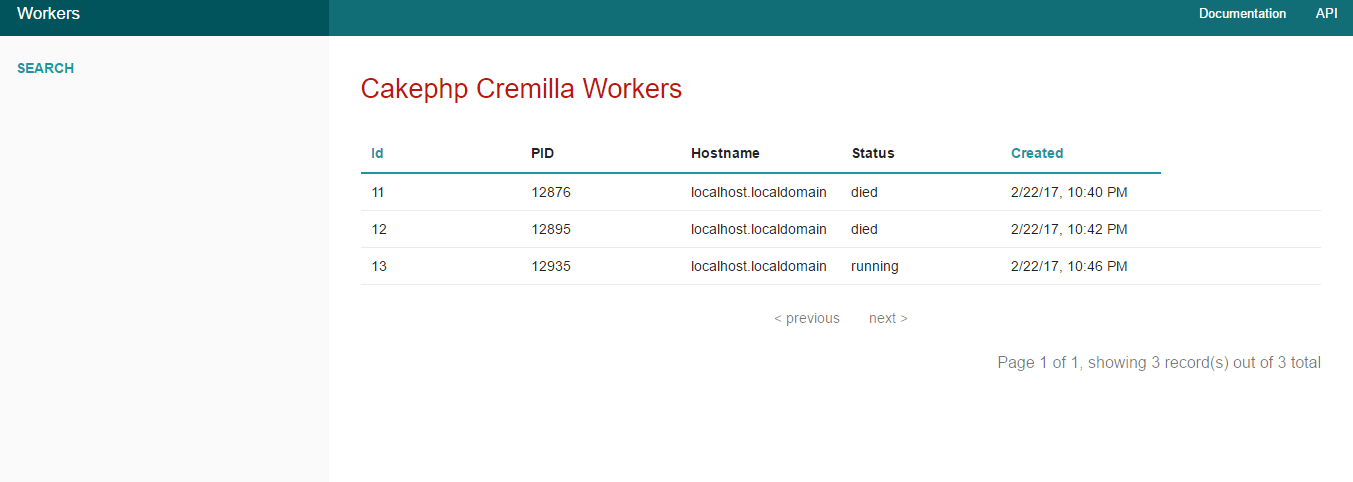
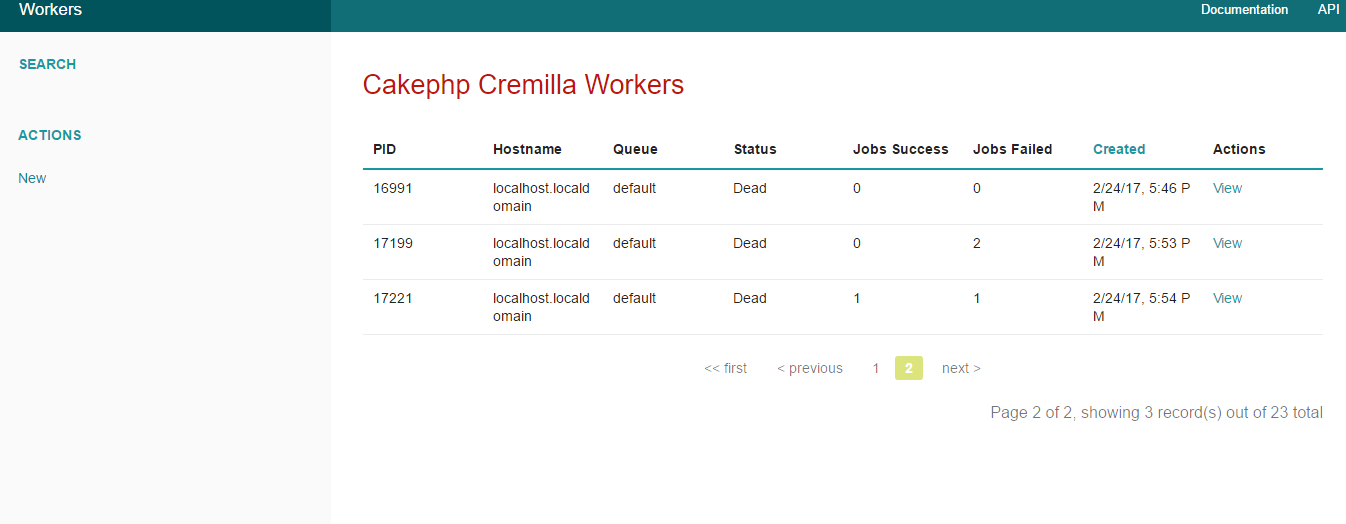
Add logs for success and failed jobs

diff --git a/src/Shell/WorkerShell.php b/src/Shell/WorkerShell.php
@@ -7,6 +7,9 @@ use Josegonzalez\CakeQueuesadilla\Shell\QueuesadillaShell;
 use Cake\Log\Log;
 use Cake\ORM\TableRegistry;
 
+use Cake\Event\EventManager;
+use Cake\Event\Event;
+
 class WorkerShell extends QueuesadillaShell
 {
     /**
@@ -20,7 +23,6 @@ class WorkerShell extends QueuesadillaShell
         $logger = Log::engine($this->params['logger']);
         $engine = $this->getEngine($logger);
         $worker = $this->getWorker($engine, $logger);
-        $this->registerWorker();
         $worker->work();
     }
 
@@ -33,21 +35,39 @@ class WorkerShell extends QueuesadillaShell
      */
     public function getWorker($engine, $logger)
     {
+        $workerId = $this->registerWorker();
         $worker = parent::getWorker($engine, $logger);
-        $worker->attachListener('Worker.job.success', function ($event) {
+        $worker->attachListener('Worker.job.success', function ($event) use ($workerId) {
+            $event = new Event('Cremilla.Worker.Job.success', $this, [
+                'data' => [
+                    'workerId' => $workerId
+                ]
+            ]);
+            $this->dispatchEvent($event);
             ConnectionManager::get('default')->disconnect();
         });
-        $worker->attachListener('Worker.job.failure', function ($event) {
+        $worker->attachListener('Worker.job.failure', function ($event) use ($workerId) {
+            $event = new Event('Cremilla.Worker.Job.failed', $this, [
+                'data' => [
+                    'workerId' => $workerId
+                ]
+            ]);
+            $this->dispatchEvent($event);
             ConnectionManager::get('default')->disconnect();
         });
 
         return $worker;
     }
 
+    private function dispatchEvent( \Cake\Event\Event $event)
+    {
+        $eventManager = EventManager::instance();
+        return $eventManager->dispatch($event);
+    }
+
     /**
-     * Register worker stat
-     * @return void
-     * 
+     * Register worker in database
+     *
      */
     private function registerWorker()
     {
@@ -64,5 +84,7 @@ class WorkerShell extends QueuesadillaShell
         if (!$workersTable->save($worker)) {
             throw new Exception("Cannot save worker stat to database");
         }
+
+        return $worker->id;
     }
 }

diff --git a/src/Event/WorkerEvent.php b/src/Event/WorkerEvent.php
@@ -3,6 +3,7 @@ namespace CriztianiX\Cremilla\Event;
 
 use Cake\Event\EventListenerInterface;
 use Cake\Mailer\Email;
+use Cake\ORM\TableRegistry;
 
 class WorkerEvent implements EventListenerInterface
 {
@@ -10,7 +11,33 @@ class WorkerEvent implements EventListenerInterface
     {
         return [
             'Cremilla.Worker.dead' => 'sendNotificationWorkerDead',
+            'Cremilla.Worker.Job.failed' => 'incrementFailedJob',
+            'Cremilla.Worker.Job.success' => 'incrementSuccessJob',
         ];
+    }
+
+    public function incrementFailedJob($event, $data)
+    {
+        $workersTable = TableRegistry::get('Cremilla.CakephpCremillaWorkers', [
+            'className' => 'CriztianiX\Cremilla\Model\Table\CakephpCremillaWorkersTable'
+        ]);
+
+        $worker = $workersTable->get($data["workerId"]);
+        $worker->jobs_failed = $worker->jobs_failed + 1;
+
+        return $workersTable->save($worker);
+    }
+
+    public function incrementSuccessJob($event, $data)
+    {
+        $workersTable = TableRegistry::get('Cremilla.CakephpCremillaWorkers', [
+            'className' => 'CriztianiX\Cremilla\Model\Table\CakephpCremillaWorkersTable'
+        ]);
+
+        $worker = $workersTable->get($data["workerId"]);
+        $worker->jobs_success = $worker->jobs_success + 1;
+
+        return $workersTable->save($worker);
     }
 
     public function sendNotificationWorkerDead($event, $data)

diff --git a/config/Migrations/20170224175001_AddJobsSuccessToWorkerss.php b/config/Migrations/20170224175001_AddJobsSuccessToWorkerss.php
@@ -1,0 +1,23 @@
+<?php
+use Migrations\AbstractMigration;
+
+class AddJobsSuccessToWorkerss extends AbstractMigration
+{
+    /**
+     * Change Method.
+     *
+     * More information on this method is available here:
+     * http://docs.phinx.org/en/latest/migrations.html#the-change-method
+     * @return void
+     */
+    public function change()
+    {
+        $table = $this->table('cakephp_cremilla_workers');
+        $table->addColumn('jobs_success', 'integer', [
+            'default' => 0,
+            'limit' => 11,
+            'null' => true,
+        ]);
+        $table->update();
+    }
+}

diff --git a/config/Migrations/20170224174953_AddJobsFailedToWorkerss.php b/config/Migrations/20170224174953_AddJobsFailedToWorkerss.php
@@ -1,0 +1,23 @@
+<?php
+use Migrations\AbstractMigration;
+
+class AddJobsFailedToWorkerss extends AbstractMigration
+{
+    /**
+     * Change Method.
+     *
+     * More information on this method is available here:
+     * http://docs.phinx.org/en/latest/migrations.html#the-change-method
+     * @return void
+     */
+    public function change()
+    {
+        $table = $this->table('cakephp_cremilla_workers');
+        $table->addColumn('jobs_failed', 'integer', [
+            'default' => 0,
+            'limit' => 11,
+            'null' => true,
+        ]);
+        $table->update();
+    }
+}

diff --git a/src/Task/DummyTask.php b/src/Task/DummyTask.php
@@ -1,0 +1,25 @@
+<?php
+namespace CriztianiX\Cremilla\Task;
+
+class DummyTask
+{
+    /**
+     * Dummy successfully task/job
+     * @return bool
+     *
+     */
+    public function work()
+    {
+        return true;
+    }
+
+    /**
+     * Dummy exception task/job
+     * @throws \Exception
+     * 
+     */
+    public function failed()
+    {
+        throw new \Exception("Failed executing Job");
+    }
+}
